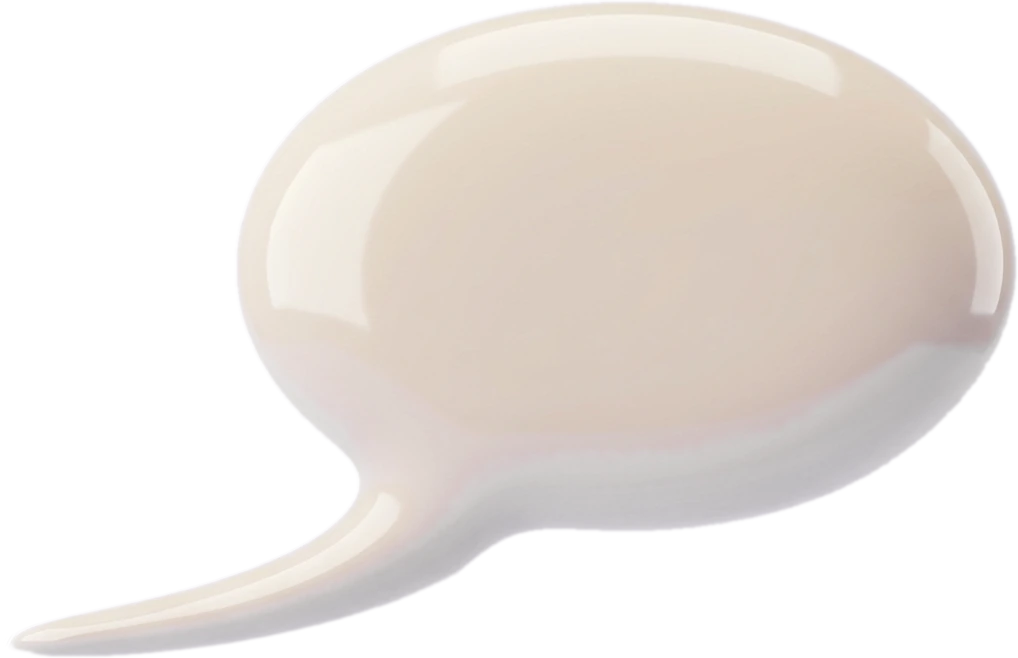
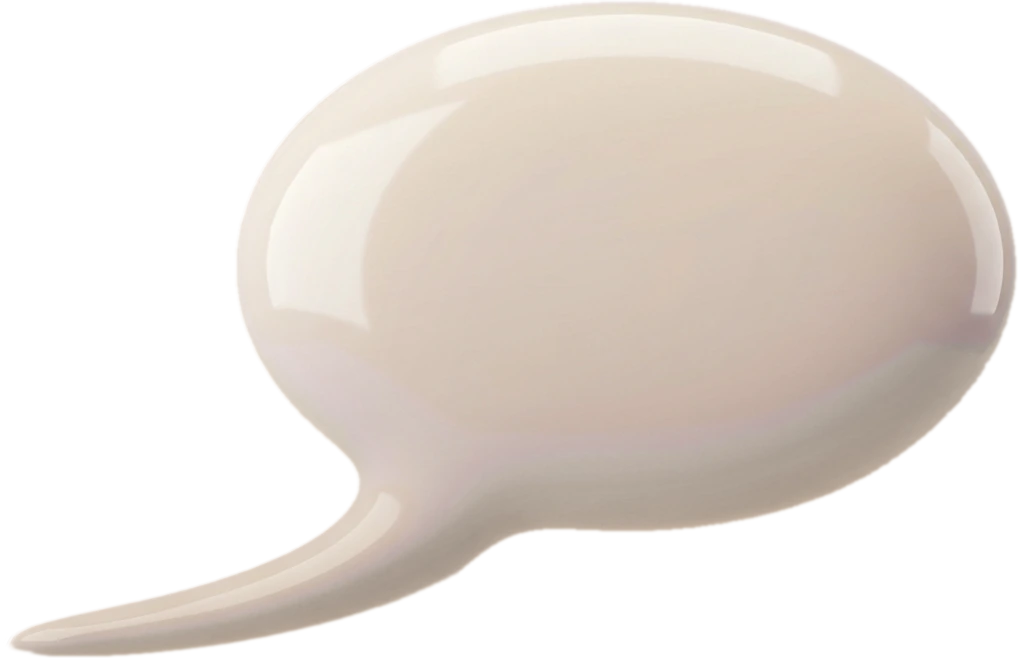
Globo: texto con jerarquia tipografica y sombreado calido coherente con la luz de Lumine

Changed region(s): [[0.0, 0.4255, 1.0, 1.0]]

diff --git a/index.html b/index.html
@@ -217,8 +217,11 @@ nav.main a:hover::after,nav.main a.act::after{transform:scaleX(1)}
   filter:drop-shadow(.7cqw 1.5cqw 1.1cqw rgba(70,55,45,.17))}
 .speech.show{opacity:1;transform:none}
 .speech img{display:block;width:100%;height:auto}
-.speech .btxt{position:absolute;left:61.5%;top:35%;transform:translate(-50%,-50%);width:60%;text-align:center;
-  font-family:var(--f-tit);font-weight:600;font-size:5.5cqw;line-height:1.36;color:var(--marino);letter-spacing:-.01em}
+.speech .btxt{position:absolute;left:61.5%;top:34.5%;transform:translate(-50%,-50%);width:62%;display:flex;flex-direction:column;align-items:center;text-align:center;
+  font-family:var(--f-tit);font-weight:600;font-size:5cqw;line-height:1.25;color:var(--marino);letter-spacing:-.01em}
+.speech .btxt i{font-style:normal;font-weight:500;font-size:3.7cqw;line-height:1.5;color:#4b5663}
+.speech .btxt b{font-weight:700;font-size:7.4cqw;line-height:1.08;letter-spacing:-.025em}
+.speech .btxt b.v{color:var(--violeta)}
 #contacto .wrap{z-index:auto}
 @media(min-width:960px){.contact-l{padding-top:6px}}
 form{background:#fff;border:2px solid var(--borde);border-radius:28px;padding:28px;display:grid;gap:16px}
@@ -394,7 +397,7 @@ footer .wrap{display:flex;flex-wrap:wrap;gap:12px 28px;justify-content:space-bet
       <div class="reveal"><h2>Solicita una consultoría</h2><p class="sub">Cuéntanos tu idea y te respondemos en menos de 24 horas hábiles.</p>
         <div class="pills"><span>✓ Diagnóstico gratuito</span><span>✓ Sin compromiso</span></div><p class="note">Arquitectura tecnológica inicial incluida.</p></div>
       <div class="lumi-call">
-        <div class="speech" id="bubble" role="status"><img src="assets/burbuja_ceramica.webp" alt=""><span class="btxt" id="btxt">Hola, cuéntame<br>tu idea.<br>Yo te escucho.</span></div>
+        <div class="speech" id="bubble" role="status"><img src="assets/burbuja_ceramica.webp" alt=""><span class="btxt" id="btxt"><i class="s">Hola,</i><b>cuéntame</b><b class="v">tu idea</b><i class="s">yo te escucho</i></span></div>
         <video id="callVid" muted loop playsinline preload="metadata" poster="assets/lumi_llamame_poster.webp" src="assets/lumi_llamame.mp4" role="img" aria-label="Lumine haciendo el gesto de llamada"></video>
       </div>
     </div>
